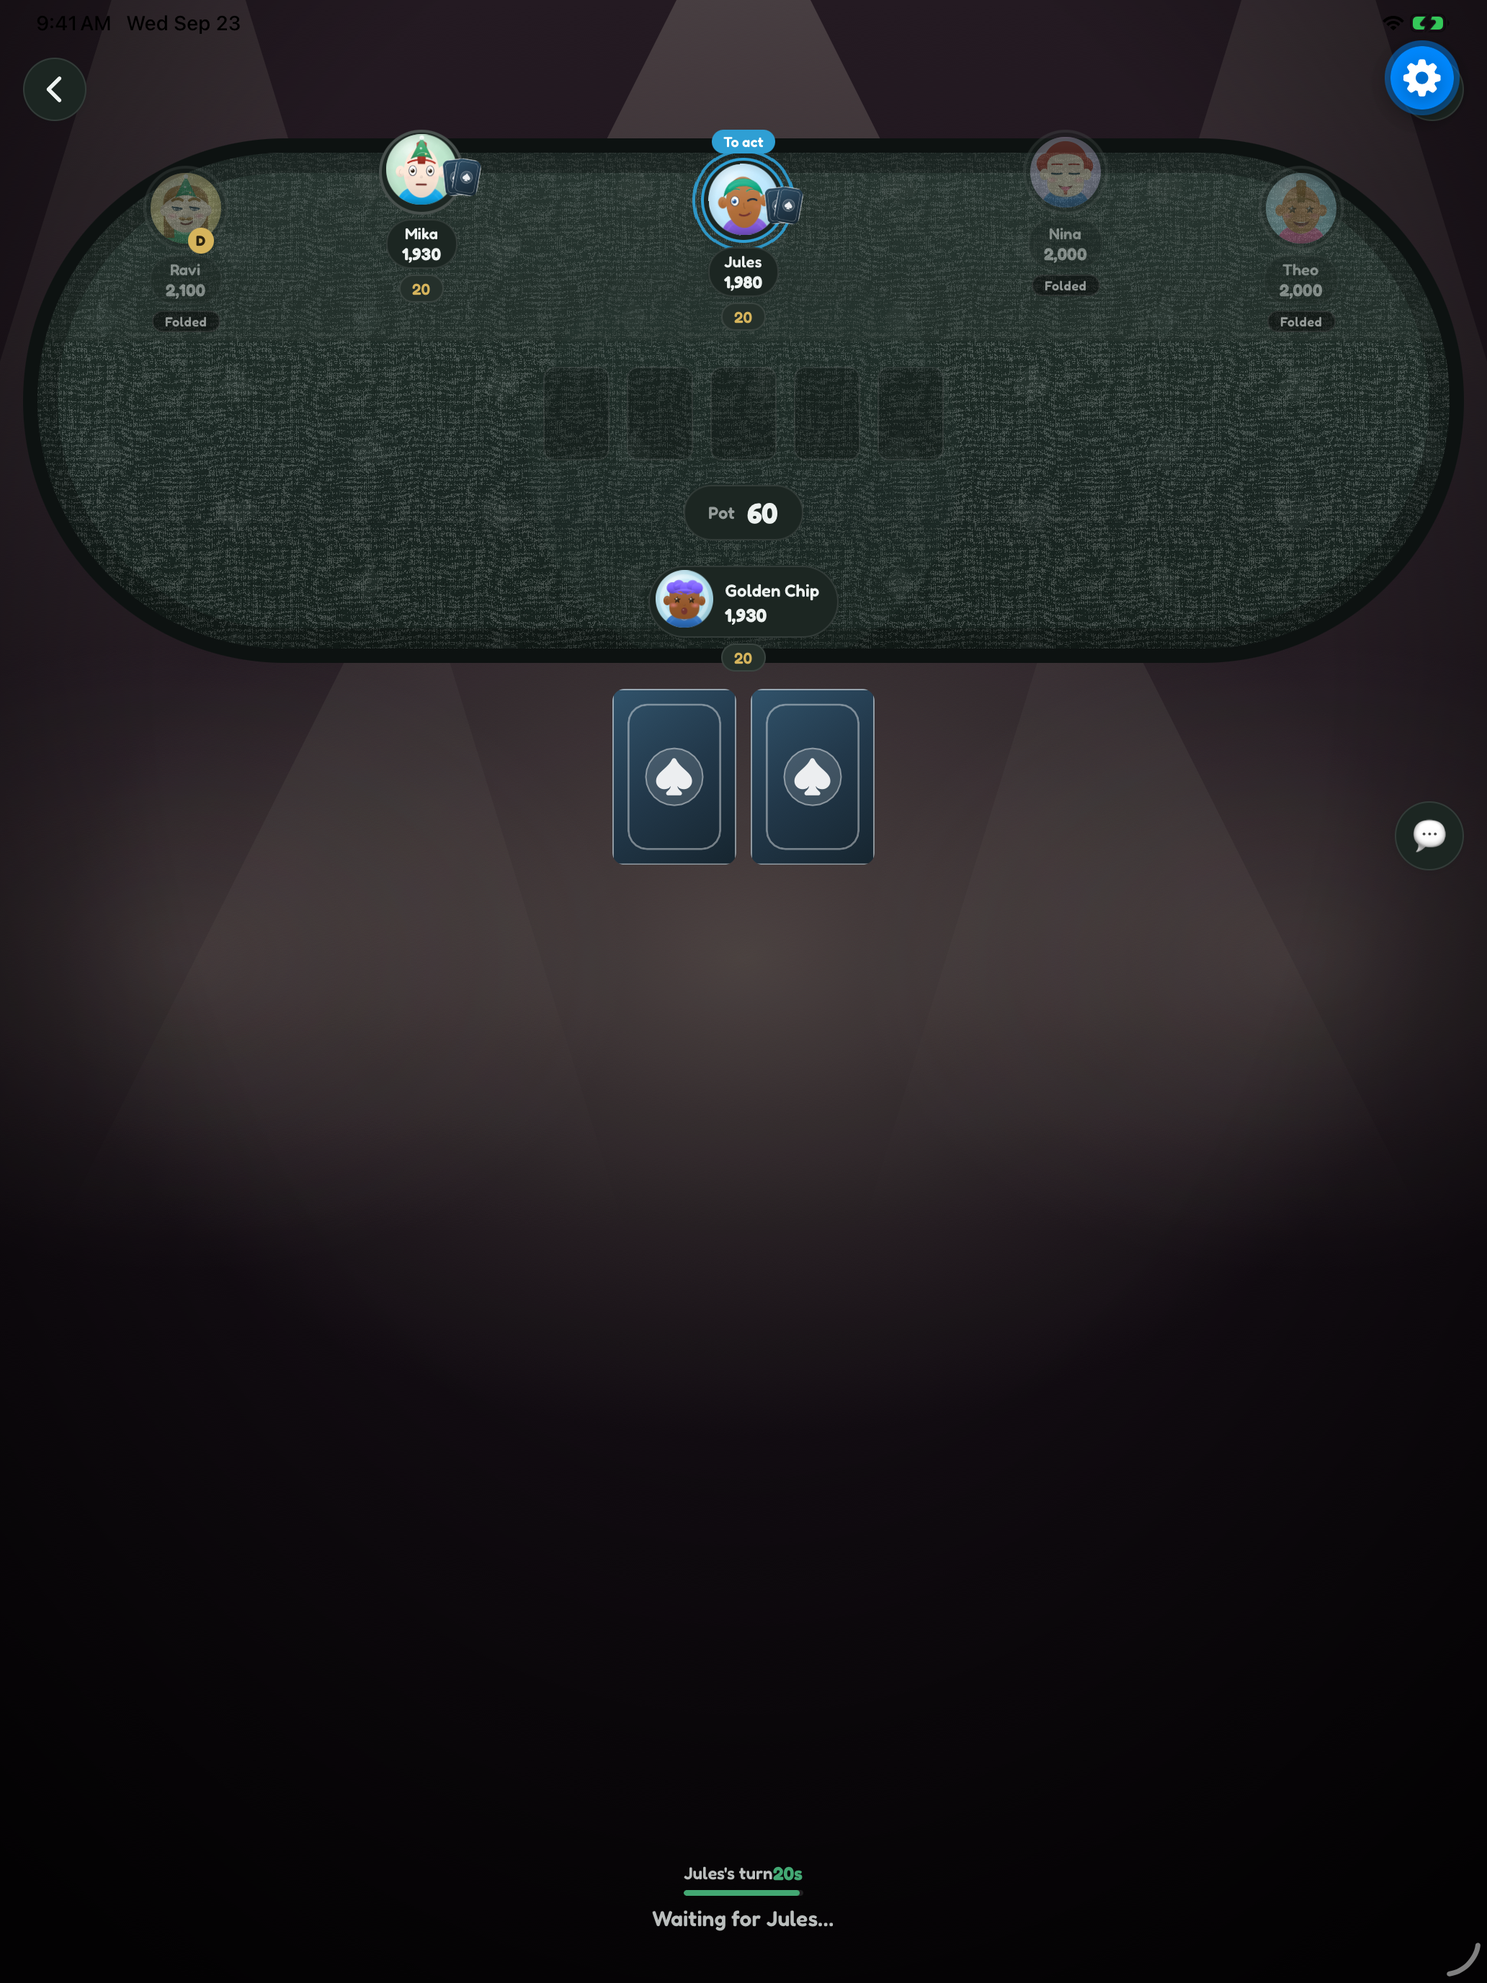
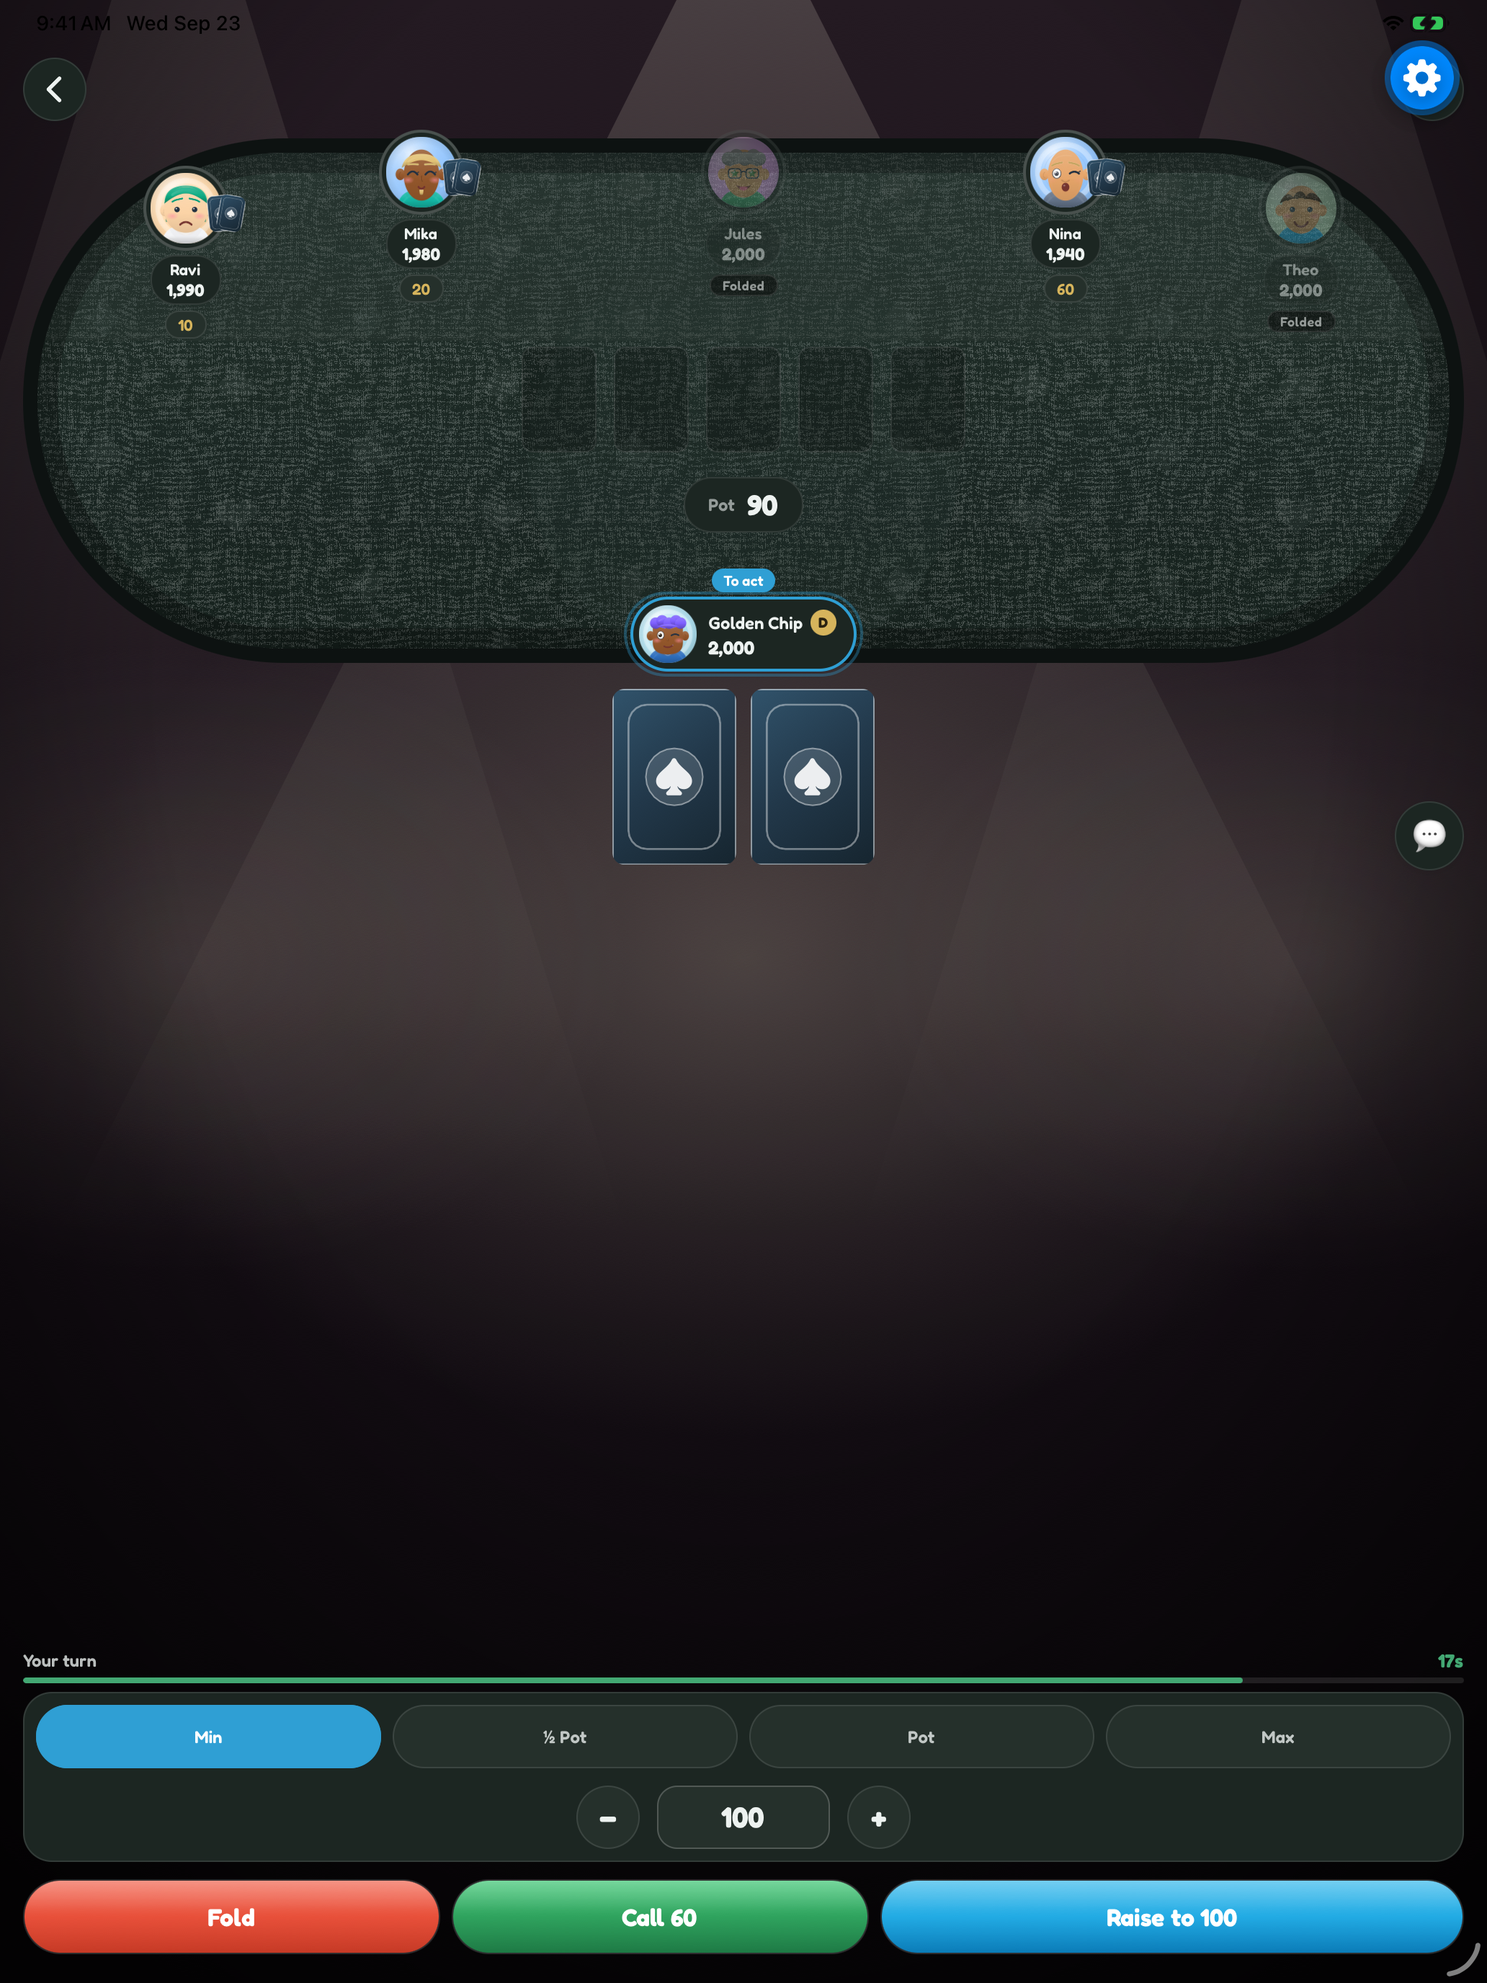
Finish the iPad capture pass, and answer the leave-table alert
The iPad run kept ending green having written no screenshots. Three
separate faults were presenting as that one symptom, and the last of
them is why they were so hard to tell apart.

Leaving the table always opens Alert.alert('Leave table?'). The alert is
modal, so every element behind it reports as present but not hittable.
Unanswered it stalled the whole run: the next back tap hit the dimmed
screen behind the sheet, and so did the one after that. backTap() now
answers it. This, not the missing accessibility label, was what actually
stranded the pass; the label is genuinely absent too, and a control dump
on the table screen now confirms "Go back" is exposed once it is added.

Nothing in the suite may call app.terminate() to reach a known state. The
suite drives Expo Go, so terminating it drops the loaded project and the
relaunch comes back to Expo Go's own project list with no app in it.
Reloading the project is the shell's job, before the test starts. The
relaunch() helper that briefly existed here was removed for that reason.

Capture tests could pass having captured nothing, because every storeOut
is guarded by `if tap(...)`. requireStored now names what each test owes
and fails when it does not deliver, which is what finally separated the
three faults above instead of all of them reading as one silent success.

testS6Home is split out for the screens reachable straight off the home
grid, so each of those captures starts from the home screen rather than
[…]

diff --git a/.maestro/xctest/LocalPokerUITests/LocalPokerUITests.swift b/.maestro/xctest/LocalPokerUITests/LocalPokerUITests.swift
@@ -2,6 +2,7 @@ import XCTest
 final class LocalPokerUITests: XCTestCase {
  let app=XCUIApplication(bundleIdentifier:"host.exp.Exponent")
  let outDir="/Users/maskndaf/.superset/worktrees/51b79363-a05b-41fc-a889-975ad92ef0ea/oil-infinity/docs/qa/audit"
+ var stored:[String]=[]
  // Querying `descendants(matching:.any)` walks every node in the RN tree, which
  // on the table screen is thousands of views and regularly blew XCUITest's
  // snapshot timeout. Text and buttons carry every label we match on, and that
@@ -487,6 +488,15 @@ final class LocalPokerUITests: XCTestCase {
    let dir = w >= 1800 ? "\(root)/raw-ipad" : "\(root)/raw"
    try? FileManager.default.createDirectory(atPath:dir, withIntermediateDirectories:true)
    try? png.write(to:URL(fileURLWithPath:"\(dir)/\(n).png")); print("STORE \(dir)/\(n)")
+   stored.append(n)
+ }
+ /// Every capture in this suite is guarded by `if tap(...)`, so a run that
+ /// navigated nowhere used to finish green having written no files at all.
+ /// That is how a whole iPad pass looked like a pass while producing nothing.
+ /// Name what a test owes and fail when it does not deliver.
+ func requireStored(_ names:[String], file:StaticString=#filePath, line:UInt=#line){
+   let missing=names.filter{ !stored.contains($0) }
+   XCTAssertTrue(missing.isEmpty, "captured nothing for \(missing)", file:file, line:line)
  }
  func gate(){
    app.activate(); sleep(2)
@@ -512,15 +522,36 @@ final class LocalPokerUITests: XCTestCase {
    // appears. Waiting on it unconditionally is what made the first iPad run
    // look like a broken sign-in: the button was absent because the user was
    // already signed in.
-   if present("Quick Play",4) { return }
+   if present("Quick Play",8) { return }
    if present("Play as Guest",8){ _=tap("Play as Guest",6) }
-   _=present("Quick Play",20)
+   _=present("Quick Play",45)
  }
  func home(){
    for _ in 0..<4 {
      if present("Quick Play",3) { return }
      backTap()
    }
+ }
+ /// Dump what the accessibility tree actually exposes. Guessing at why a
+ /// control cannot be found costs a five-minute simulator run per guess, so
+ /// the suite prints the real labels instead.
+ func dumpControls(_ tag:String){
+   let labels=app.buttons.allElementsBoundByIndex.prefix(40).map{ $0.label }
+   print("DUMP \(tag) buttons=\(labels)")
+ }
+ /// The screens reachable straight off the home grid. Split out from testS2Rest
+ /// so each capture starts from a known state instead of inheriting wherever
+ /// the previous navigation step left the app.
+ func testS6Home() throws {
+   gate()
+   if tap("My Stats",8){ sleep(4); storeOut("06-stats") }
+   toHome()
+   if tap("My Pal",8){ sleep(4); storeOut("08-pal") }
+   toHome()
+   if tap("Friends",8){ sleep(6); storeOut("07-friends") }
+   toHome()
+   if tap("Store",8){ sleep(4); storeOut("09-store") }
+   requireStored(["06-stats","08-pal","07-friends","09-store"])
  }
  func testS1Store() throws {
    gate()
@@ -567,16 +598,48 @@ final class LocalPokerUITests: XCTestCase {
  }
 
  /// The back chevron is icon-only. It now carries an accessibility label, so
- /// match it by name; the normalised coordinate below is only a fallback for a
- /// screen that has not been relabelled yet. The coordinate alone was not
- /// portable: 6% across and 6.6% down lands on the chevron on a 1320x2868
- /// iPhone but roughly 100px clear of it on a 2064x2752 iPad, which silently
- /// stranded every capture that had to navigate home.
+ /// match it by name and fall back to geometry only if that fails.
+ ///
+ /// The fallback is expressed in points, not in a normalised fraction of the
+ /// canvas. The header is laid out in points, so the chevron sits at about the
+ /// same point offset on every device, which is a *different* fraction of each
+ /// screen: 6% across a 440pt-wide iPhone is 26pt, but 6% across a 1032pt-wide
+ /// iPad is 62pt, well past the 44pt button. A hard-coded normalised offset
+ /// tuned on the iPhone therefore missed on iPad and silently stranded every
+ /// capture that had to navigate home.
  func backTap(){
-   let b=app.buttons["Go back"]
-   if b.waitForExistence(timeout:2) && b.isHittable { b.tap(); usleep(900_000); return }
-   app.coordinate(withNormalizedOffset: CGVector(dx:0.06,dy:0.066)).tap(); usleep(900_000)
+   let b=btn("Go back")
+   let exists=b.waitForExistence(timeout:2)
+   if exists && b.isHittable {
+     b.tap()
+   } else {
+     print("BACK labelled button exists=\(exists) hittable=\(exists && b.isHittable)")
+     dumpControls("back")
+     let f=app.frame
+     let dx = f.width  > 0 ? 42.0/f.width  : 0.06
+     let dy = f.height > 0 ? 62.0/f.height : 0.066
+     app.coordinate(withNormalizedOffset: CGVector(dx:dx, dy:dy)).tap()
+   }
+   usleep(900_000)
+   // Leaving the table always asks to confirm, and the alert is modal: every
+   // element behind it reports as present but not hittable. Left unanswered it
+   // stalled the whole capture run, because the next backTap simply tapped the
+   // dimmed screen behind the sheet and the one after that did the same. This
+   // is what actually stranded the iPad run; the missing accessibility label
+   // was a real bug but not this one.
+   let alert=app.alerts.firstMatch
+   if alert.waitForExistence(timeout:2) {
+     let confirm=alert.buttons["Leave"]
+     if confirm.exists { confirm.tap() }
+     else if alert.buttons.count > 0 { alert.buttons.element(boundBy:alert.buttons.count-1).tap() }
+     usleep(900_000)
+   }
  }
+ /// Returning to the home screen. Note that this navigates *inside* the app
+ /// rather than restarting it. Restarting looks tempting and is a trap: the
+ /// suite drives Expo Go, and terminating Expo Go drops the loaded project, so
+ /// the relaunch comes back to Expo Go's own project list with no app in it at
+ /// all. Reloading the project is the shell's job, before the test starts.
  func toHome(){
    for _ in 0..<5 {
      if present("Quick Play",2) { return }
@@ -705,7 +768,7 @@ final class LocalPokerUITests: XCTestCase {
 
  func testS5Duo() throws {
    gate()
-   for _ in 0..<8 { if present("Quick Play",2) { break }; backTap() }
+   toHome()
 
    // Heads up: the "Number of Opponents" control renders as a stepper, not a
    // UISlider, so `app.sliders` never matched it and the table stayed six-handed.
@@ -731,6 +794,7 @@ final class LocalPokerUITests: XCTestCase {
      }
      sleep(1)
      storeOut("21-headsup")
+     dumpControls("table")
 
      // Reactions sheet, opened from the table. Shows GIFs, stickers, emoji and
      // the quick-text field all at once.
@@ -740,5 +804,6 @@ final class LocalPokerUITests: XCTestCase {
        _=tap("Close reactions",3)
      }
    }
+   requireStored(["20-headsup-setup","21-headsup","22-reactions"])
  }
 }

diff --git a/docs/store/APP-STORE-CONNECT.md b/docs/store/APP-STORE-CONNECT.md
@@ -21,7 +21,7 @@ This is the paste-ready App Store Connect sheet for `com.localpoker.app` version
 | iOS build number | `1` | Matches `app.json`. Increment for each uploaded binary after the first. |
 | Expo SDK | `~57.0.23` | Matches `package.json`. |
 | EAS CLI | `>= 5.0.0` | Required by `eas.json`. |
-| iPad support | `false` | Deliberate launch decision because the table UI is phone-tuned. No iPad support at launch, upload iPhone screenshots only. Confirmed on a 13-inch simulator: `docs/store/screenshots/raw-ipad/03-table.png` shows the felt squashed into the top third with the lower half empty. |
+| iPad support | `false` | Deliberate launch decision because the table UI is phone-tuned. No iPad support at launch, upload iPhone screenshots only. Confirmed on a 13-inch simulator: `docs/store/screenshots/felt-ipad/localpoker-13-01.png` shows the felt in the top third with the lower half empty. |
 | Export compliance | `ITSAppUsesNonExemptEncryption = false` | Use the standard encryption answer only if the app uses HTTPS/TLS and no custom non-exempt encryption. |
 | Sentry | Disabled by default | Add real DSN plus real Expo plugin org/project only if shipping diagnostics. |
 
@@ -258,29 +258,26 @@ interaction behaving correctly, but it undersells the game. The pending
 
 ### The iPad set, and why it is staged rather than shipped
 
-`scripts/build-store-images.py` carries two device profiles and will emit a
-13-inch iPad set (`2064 x 2752`, into `docs/store/screenshots/felt-ipad/`) as
-soon as all six captures exist in `docs/store/screenshots/raw-ipad/`. It skips
-that profile with a notice rather than failing when they do not, because the
-iPhone set is the one that ships.
+`scripts/build-store-images.py` carries two device profiles and emits a 13-inch
+iPad set (`2064 x 2752`) into `docs/store/screenshots/felt-ipad/` alongside the
+iPhone set. It skips that profile with a notice rather than failing when the
+captures are absent, because the iPhone set is the one that ships.
 
 One layout serves both canvases. Every measurement is a fraction of the canvas,
 and type is keyed to the canvas *diagonal* rather than to either edge: keyed to
 height it goes timid on the much wider iPad canvas, keyed to width it eats the
 slide. The fractions are set so the iPhone numbers land exactly where they were
 tuned by hand, which is the check that the iPad profile was added without
-disturbing the set that matters.
+disturbing the set that matters. All twelve slides clear AAA.
 
-**Do not upload the iPad set yet, and not only because `supportsTablet` is
-`false`.** The first iPad capture run produced the evidence: in
-`docs/store/screenshots/raw-ipad/03-table.png` the felt is squashed into the
-top third of the screen and the bottom half is empty. The table is laid out for
-a phone's aspect ratio and does not adapt, which is precisely the reason iPad
-support was declined in the first place. Shipping that frame as marketing would
-advertise a broken tablet experience and invite a Guideline 2.3.3 rejection for
-not showing the app in genuine use.
+**Do not upload the iPad set, and not only because `supportsTablet` is
+`false`.** Slide `localpoker-13-01.png` shows the problem better than any
+description: the felt occupies the top third and the bottom half of the screen
+is empty. The table is laid out for a phone's aspect ratio and does not adapt.
+Shipping that as marketing would advertise a broken tablet experience and
+invite a Guideline 2.3.3 rejection for not showing the app in genuine use.
 
-The grid screens are a different story. Home, difficulty, stats and Pal all
+The grid screens are a different story. Stats, home, difficulty and Pal all
 reflow correctly into the wider canvas and look good. So the blocker is
 specific: it is the *table* screens, which are slides 1 and 2, the two that
 carry the pitch.
@@ -291,12 +288,11 @@ Re-enabling iPad is therefore a two-part change, not a flag flip:
 2. Set `ios.supportsTablet` to `true`, which also puts the iPad experience in
    front of App Review.
 
-To refresh the iPad captures, boot the 13-inch simulator, point Expo Go at the
-dev server, and run the three capture tests against it:
+### Running the capture suite against a second device
 
 ```
 xcrun simctl boot "iPad Pro 13-inch (M5)"
-xcrun simctl openurl booted exp://127.0.0.1:8095
+xcrun simctl openurl booted exp://127.0.0.1:8095    # reload the project first
 xcodebuild test -project .maestro/xctest/UITestHarness.xcodeproj -scheme Harness \
   -derivedDataPath .maestro/DerivedData -destination 'name=iPad Pro 13-inch (M5)' \
   -only-testing:LocalPokerUITests/LocalPokerUITests/testS1Store
@@ -304,22 +300,42 @@ xcodebuild test -project .maestro/xctest/UITestHarness.xcodeproj -scheme Harness
 
 `storeOut` picks its output folder from the captured pixel width, so running
 the same test against an iPad destination cannot overwrite the iPhone set.
+`testS1Store`, `testS2Rest`, `testS5Duo` and `testS6Home` together produce
+every capture the slides use.
 
-Two harness bugs had to be fixed before an iPad run would complete, and both
-were really accessibility bugs in the app:
+Reload the project between runs. XCUITest terminates the app when a run ends,
+and because the suite drives Expo Go rather than a standalone build, that drops
+the loaded project: Expo Go comes back to its own project list with no app in
+it. A test that starts there finds nothing and, because every capture is
+guarded by `if tap(...)`, used to finish green having written no files at all.
+For the same reason nothing in the suite may call `app.terminate()` to get back
+to a known state.
 
-- Tile labels surface as static text on iPhone but only as a *button* on iPad,
-  where the Pressable groups its children into one element. Gates written
+Four things had to be fixed before an iPad run would complete, and three were
+real bugs in the app rather than in the tests:
+
+- **Leaving the table opens a confirmation alert.** `leave()` always calls
+  `Alert.alert('Leave table?')`. The alert is modal, so every element behind it
+  reports as present but not hittable. Unanswered, it stalled the entire run:
+  the next back tap hit the dimmed screen behind the sheet, and so did the one
+  after that. This was the actual cause of the stranded iPad pass. `backTap()`
+  now answers it.
+- **The back chevron had no accessibility label.** It was an icon-only
+  `Pressable` in both `ScreenHeader` and `TableScreen`, so VoiceOver announced
+  nothing and the harness had to tap a hard-coded coordinate. A coordinate
+  tuned on a 440pt-wide iPhone lands about 20pt off on a 1032pt-wide iPad,
+  because the header is laid out in points and so occupies a *smaller fraction*
+  of a larger screen. Both buttons now carry `accessibilityLabel="Go back"`.
+- **Tile labels surface as buttons on iPad**, not as static text, because the
+  Pressable groups its children into one accessibility element. Gates written
   against `app.staticTexts` alone returned false while the label was plainly on
-  screen, so the home screenshot fired before the screen had loaded and every
-  later navigation step missed. The gates now check both.
-- The back chevron was an icon-only `Pressable` with no accessibility label, so
-  VoiceOver announced nothing and the harness had to tap a hard-coded
-  coordinate. That coordinate lands on the chevron on an iPhone and about 100px
-  clear of it on an iPad. Both back buttons now carry `accessibilityLabel="Go
-  back"` and the harness matches on it.
+  screen. The gates now check both collections.
+- **Capture tests could pass having captured nothing.** `requireStored` now
+  names what each test owes and fails when it does not deliver, which is how
+  the three failures above were finally told apart instead of all presenting as
+  the same silent green run.
 
-A third failure was not a bug at all: a run that appeared to show broken guest
+A fifth symptom was not a bug at all: a run that appeared to show broken guest
 sign-in was simply an already-signed-in session. Auth persists through
 AsyncStorage now, so on any simulator that has run the app before there is no
 "Play as Guest" button to wait for. `gate()` returns early when it is already
